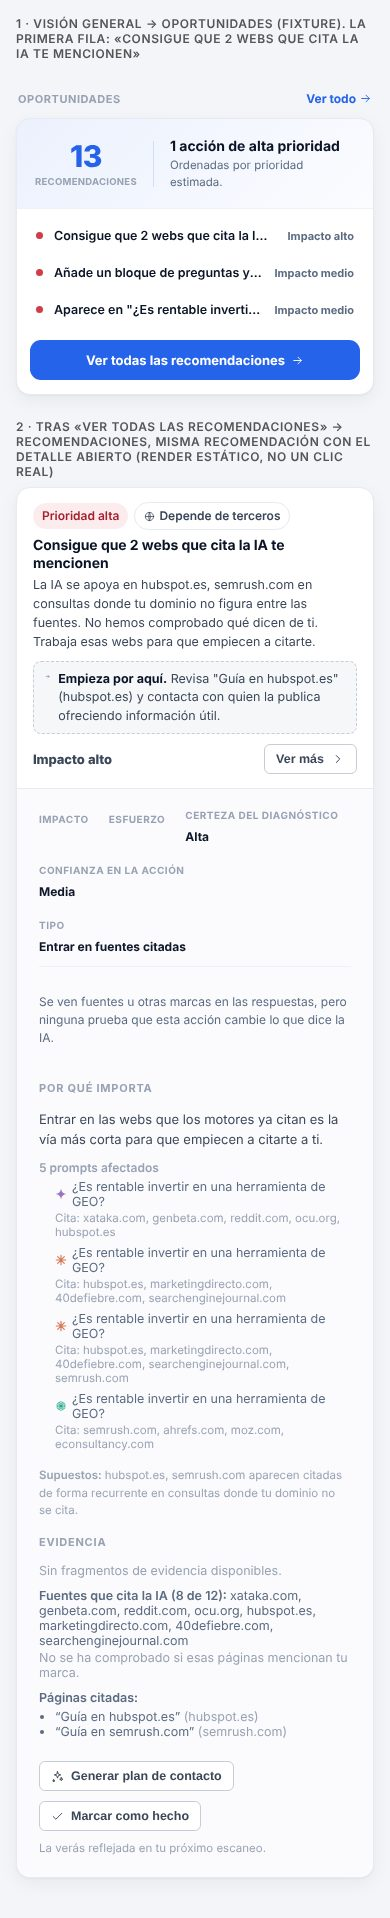
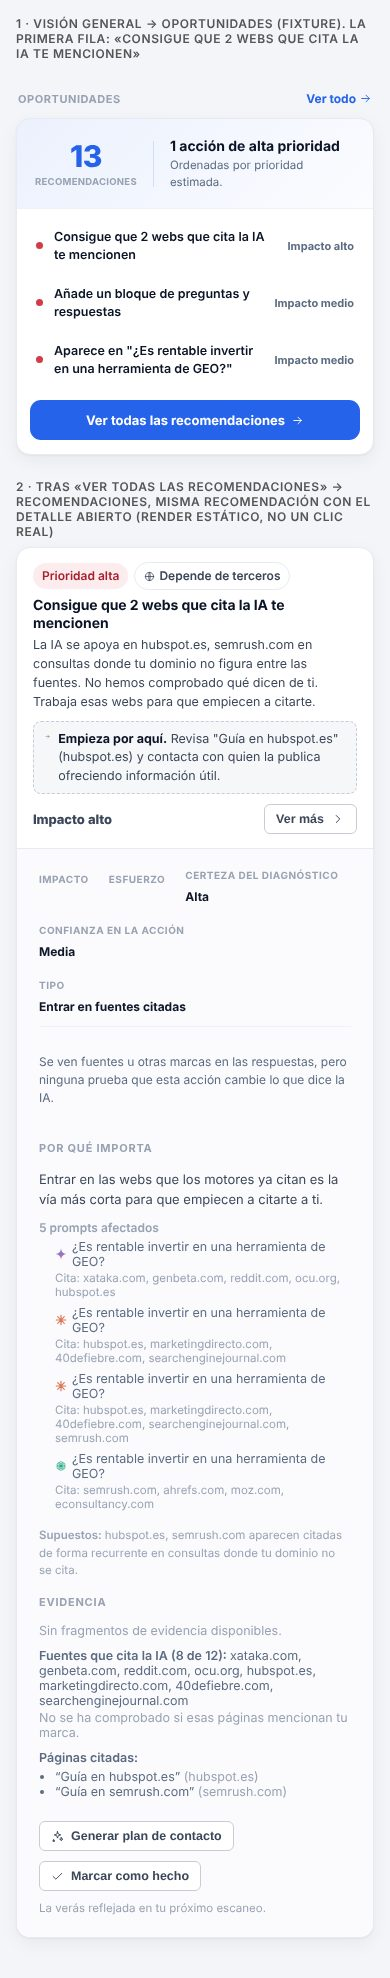
UNPROVEN-CLAIMS-1: regenerate fixture evidence from the final CSS, add before/after of Oportunidades titles
Claude-Session: https://claude.ai/code/session_01QUQshxqfN3qFT8Wz4MrDfS

diff --git a/docs/evidence/unproven-claims-1/README.md b/docs/evidence/unproven-claims-1/README.md
@@ -6,9 +6,9 @@ de clientes ni PII; el contenido es la fixture sintética del primer escaneo de
 genscore.es (`lib/recommendations/fixtures/genscore-first-scan.ts`, construida a
 mano, sin leer ninguna fila de producción).
 
-**Código renderizado:** commit `f009909` (`f0099095385490b8264dc5e4aabdec87e439ab3f`).
+**Código renderizado:** commit `0cc2692` (`0cc26929ce1322b597e7bc019bb293594121db0d`).
 El head del PR con esta carpeta es el commit que la añade (docs-only sobre
-`f009909`); el informe del PR cita el SHA exacto.
+`0cc2692`); el informe del PR cita el SHA exacto.
 
 ## Cómo se generaron
 Los componentes reales (`OpportunitiesCard`, `RecCard`, el texto de los helpers
@@ -23,21 +23,40 @@ del arnés, no del producto.
 | Fichero | Qué muestra | Origen |
 |---|---|---|
 | `oportunidades-390.jpg`, `oportunidades-1280.jpg` | Visión general · tarjeta Oportunidades completa: recuento real, «Ordenadas por prioridad estimada.», filas con impacto cualitativo, sin «+N»/techo | fixture |
+| `oportunidades-css-{antes,despues}-{390,768,1280}.jpg` | Antes/después del CSS de los títulos con la fixture y filas extremas (solo la tarjeta) | fixture |
 | `flujo-oportunidades-a-detalle-390.jpg` | Oportunidades a 390 px y, debajo, la **misma** recomendación con el detalle abierto en Recomendaciones: el título cortado en la fila se lee entero | fixture, **render estático de los dos estados; no es un clic real** |
 | `recomendaciones-y-prompts-390.jpg`, `recomendaciones-y-prompts-1280.jpg` | Tarjetas de visibilidad, FAQ, brecha con competidor, fila de `419ad9a` recalibrada, «Repite lo que ya te funciona», cabecera del plan sin cifra, banner de Prompts y cajón | fixture; banner y cajón con clases reales y el texto de los helpers, no el componente completo |
 
-## Truncado de los títulos de Oportunidades (medido)
-`scrollWidth > clientWidth` sobre `.ov2-opp-t > span`, mismo CSS. La fila no es un
-enlace ni tiene tooltip: el título completo solo se lee en Recomendaciones.
-| Ancho | Con «+14 pt» (antes) | Con «Impacto …» (ahora) |
-|---|---|---|
-| 390 | cortan 3/3 (249 px) | cortan 3/3 (223/209/209 px) |
-| 768 | corta la 3.ª (351 px) | corta la 3.ª (311 px) |
-| 1280 | ninguna | ninguna |
+## Títulos de Oportunidades: antes/después del CSS (mismo fixture, medido)
+Cambio: solo las dos reglas del título (`.ov2-opp-t` y `.ov2-opp-t span`,
+2 líneas con `line-clamp`) salen de `@media (min-width: 1200px)` en
+`app/console.css`; alineación, relleno, punto y «rápida» siguen siendo del
+breakpoint. `globals.css` no tiene secciones posteriores que re-encabecen esos
+selectores, así que no cambia quién gana (`styles.md`). La fila sigue sin
+enlace ni tooltip: no se inventa ninguno.
 
-Causa: la regla de 2 líneas está dentro de `@media (min-width: 1200px)` en
-`app/console.css`; por debajo rige `nowrap` + `ellipsis` (`app/globals.css`).
-Propuesta mínima, **no aplicada**: sacar esa regla del breakpoint (CSS puro).
+Fixture: las 3 filas del primer escaneo + 3 extremas (título muy largo, una
+palabra de 80 caracteres sin espacios, título corto con «rápida»). `l` = líneas;
+`*` = recortada.
+| Ancho | Antes | Después |
+|---|---|---|
+| 390 | 1l* 1l* 1l* 1l* 1l* 1l | **2l 2l 2l** 2l* 1l* 1l |
+| 768 | 1l 1l 1l* 1l* 1l* 1l | 1l 1l **2l** 2l* 1l* 1l |
+| 1280 | 2l 1l 2l 2l* 1l* 1l | 2l 1l 2l 2l* 1l* 1l (idéntico) |
+
+En los tres anchos, antes y después: sin desborde de la tarjeta ni del
+documento, el botón «Ver todas las recomendaciones» queda dentro de la tarjeta
+y el título nunca solapa la etiqueta de impacto. Límites que **no** se arreglan
+aquí: un título larguísimo se recorta a 2 líneas con puntos suspensivos, y una
+palabra de 80 caracteres sin espacios no puede envolver (igual que antes).
+Con «+N pt» (antes de §236) a 390 px el título medía 249 px; con «Impacto …»
+y sin este cambio, 209–223 px.
+
+| Antes (390) | Después (390) |
+|---|---|
+| `oportunidades-css-antes-390.jpg` | `oportunidades-css-despues-390.jpg` |
+| `oportunidades-css-antes-768.jpg` | `oportunidades-css-despues-768.jpg` |
+| `oportunidades-css-antes-1280.jpg` | `oportunidades-css-despues-1280.jpg` |
 
 ## Qué NO prueba esto
 UI real en el preview, interacción real, datos reales ni el piloto de usuario.
